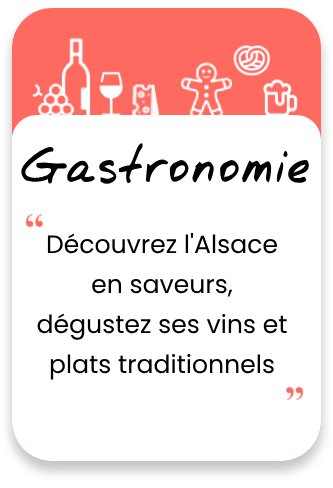
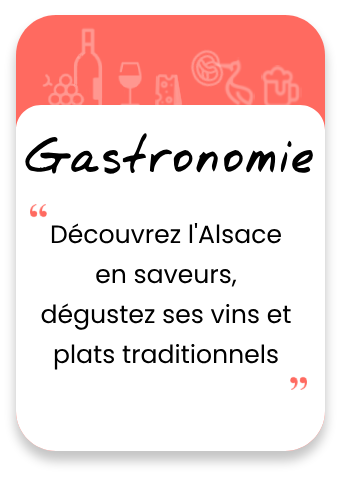
homepage

diff --git a/public/css/style.css b/public/css/style.css
@@ -362,7 +362,8 @@ nav span{
     /* width: 64%; */
     position: relative;
     width:50%;
-    background-color: #ffffffbd;
+    /* background-color: #ffffffbd; */
+    background-color: #ffffffd6;
     border-radius: 1rem;
     height: 65%;
     box-shadow: 0.5rem 0.5rem 1rem 0px rgb(0 0 0 / 7%);
